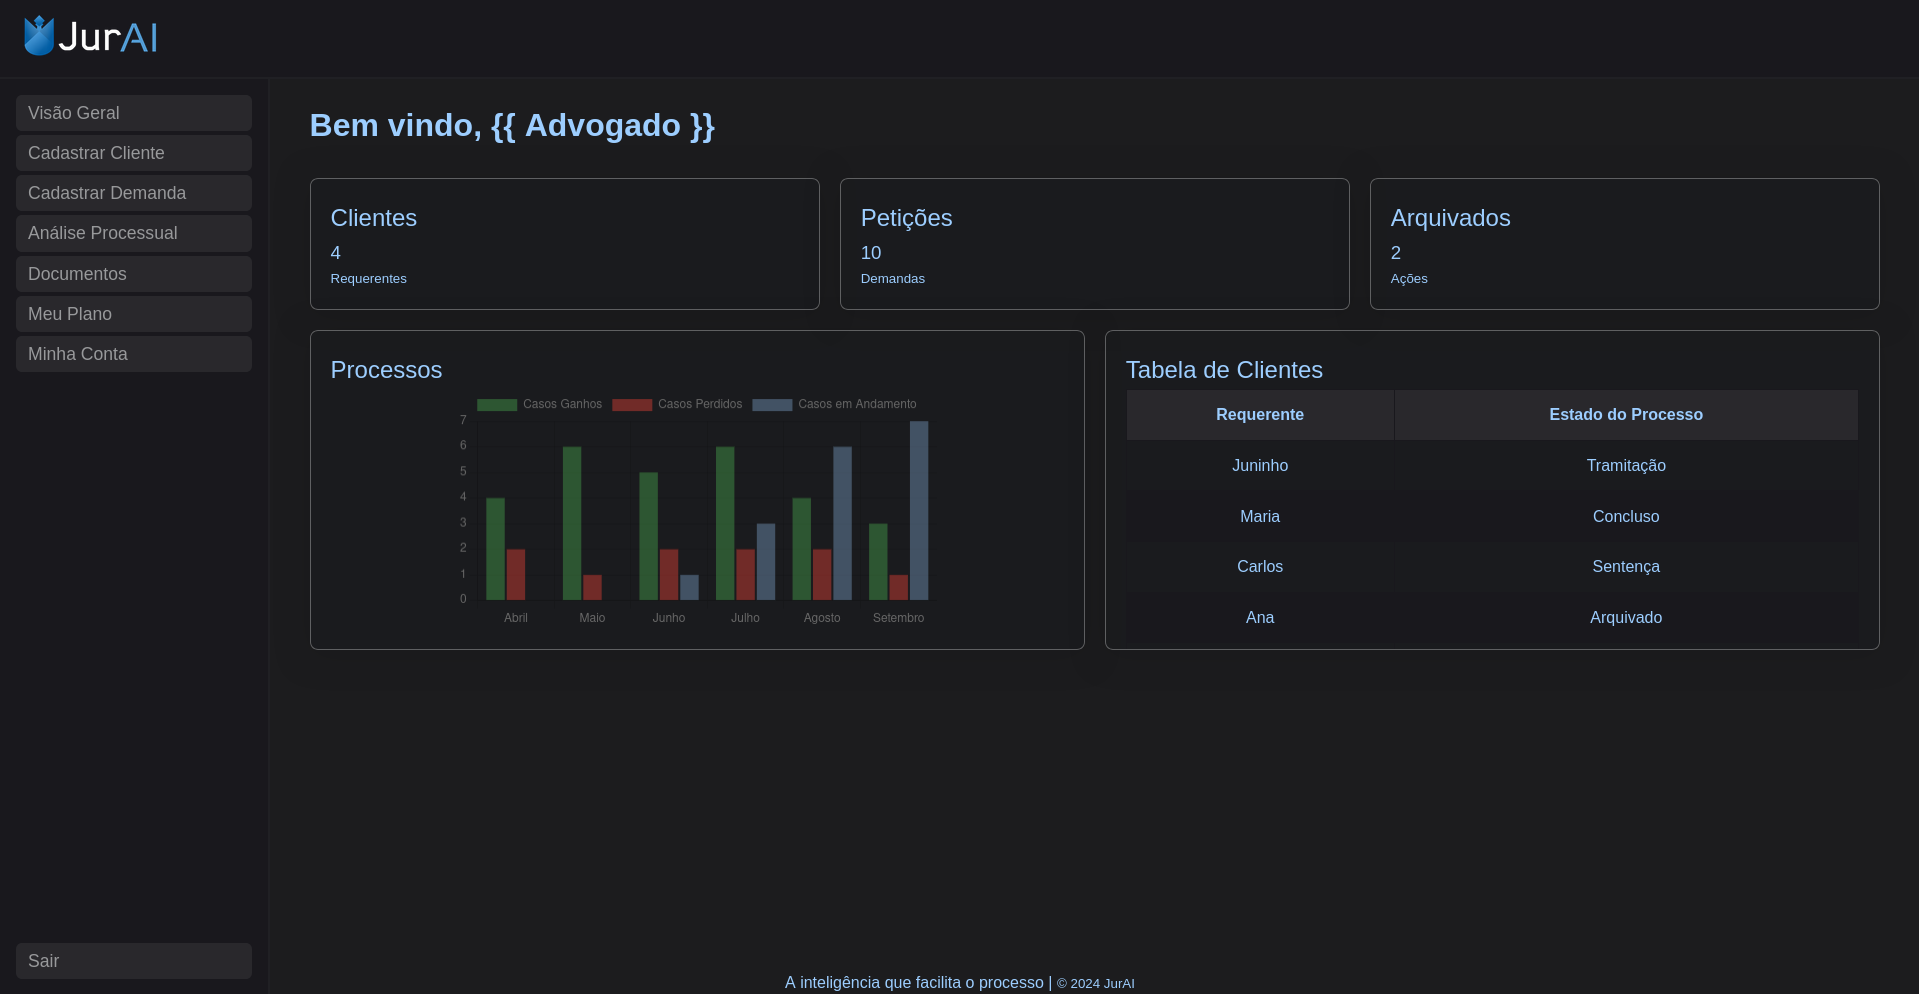
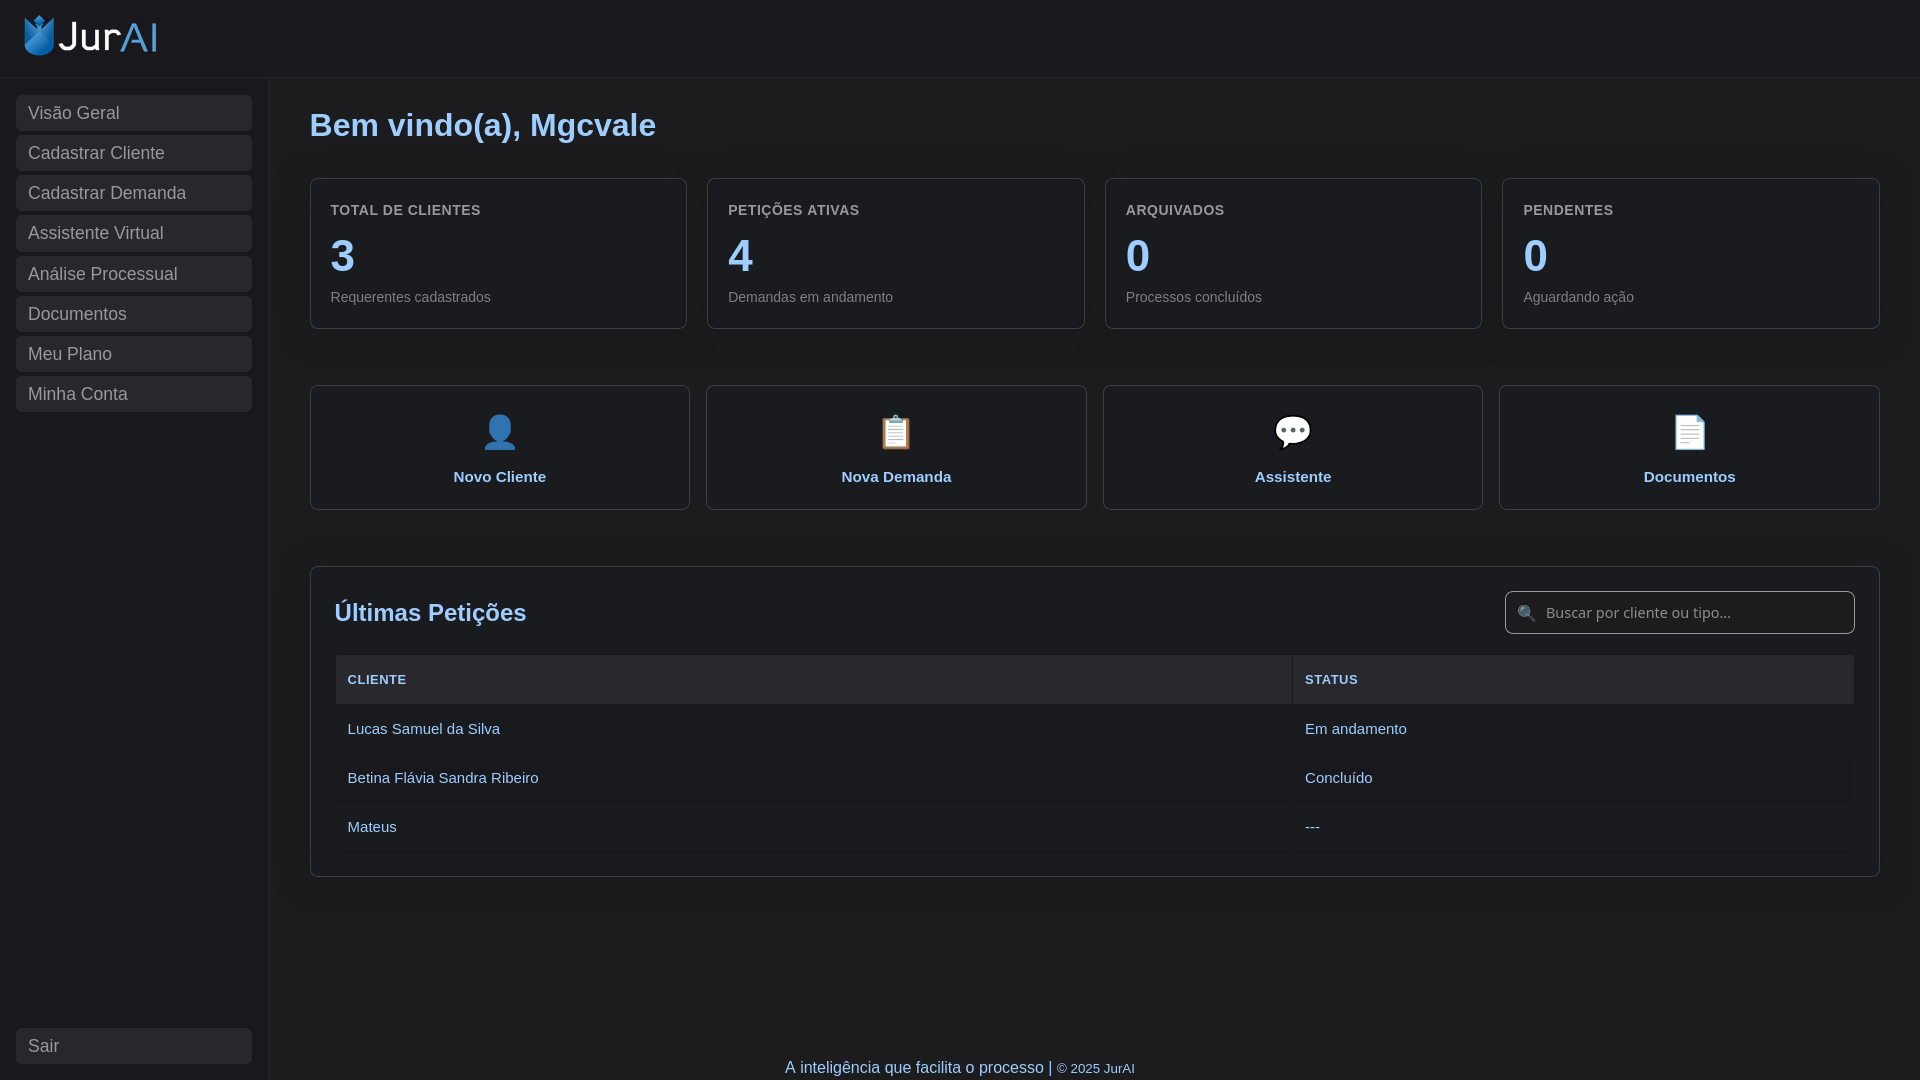
add new image and comment estatisticas.html

diff --git a/index.html b/index.html
@@ -21,7 +21,7 @@
                 <!-- <li><a href="#quick-consult">Consulta Rápida</a></li> -->
                 <li><a href="#plans">Planos</a></li>
                 <li><a href="#contact">Contato</a></li>
-                <li><a href="./estatisticas.html">Estatísticas</a></li>
+                <!-- <li><a href="./estatisticas.html">Estatísticas</a></li> -->
             </ul>
         </nav>
         <a id="account-area" href="./login.html">Entrar</a>
